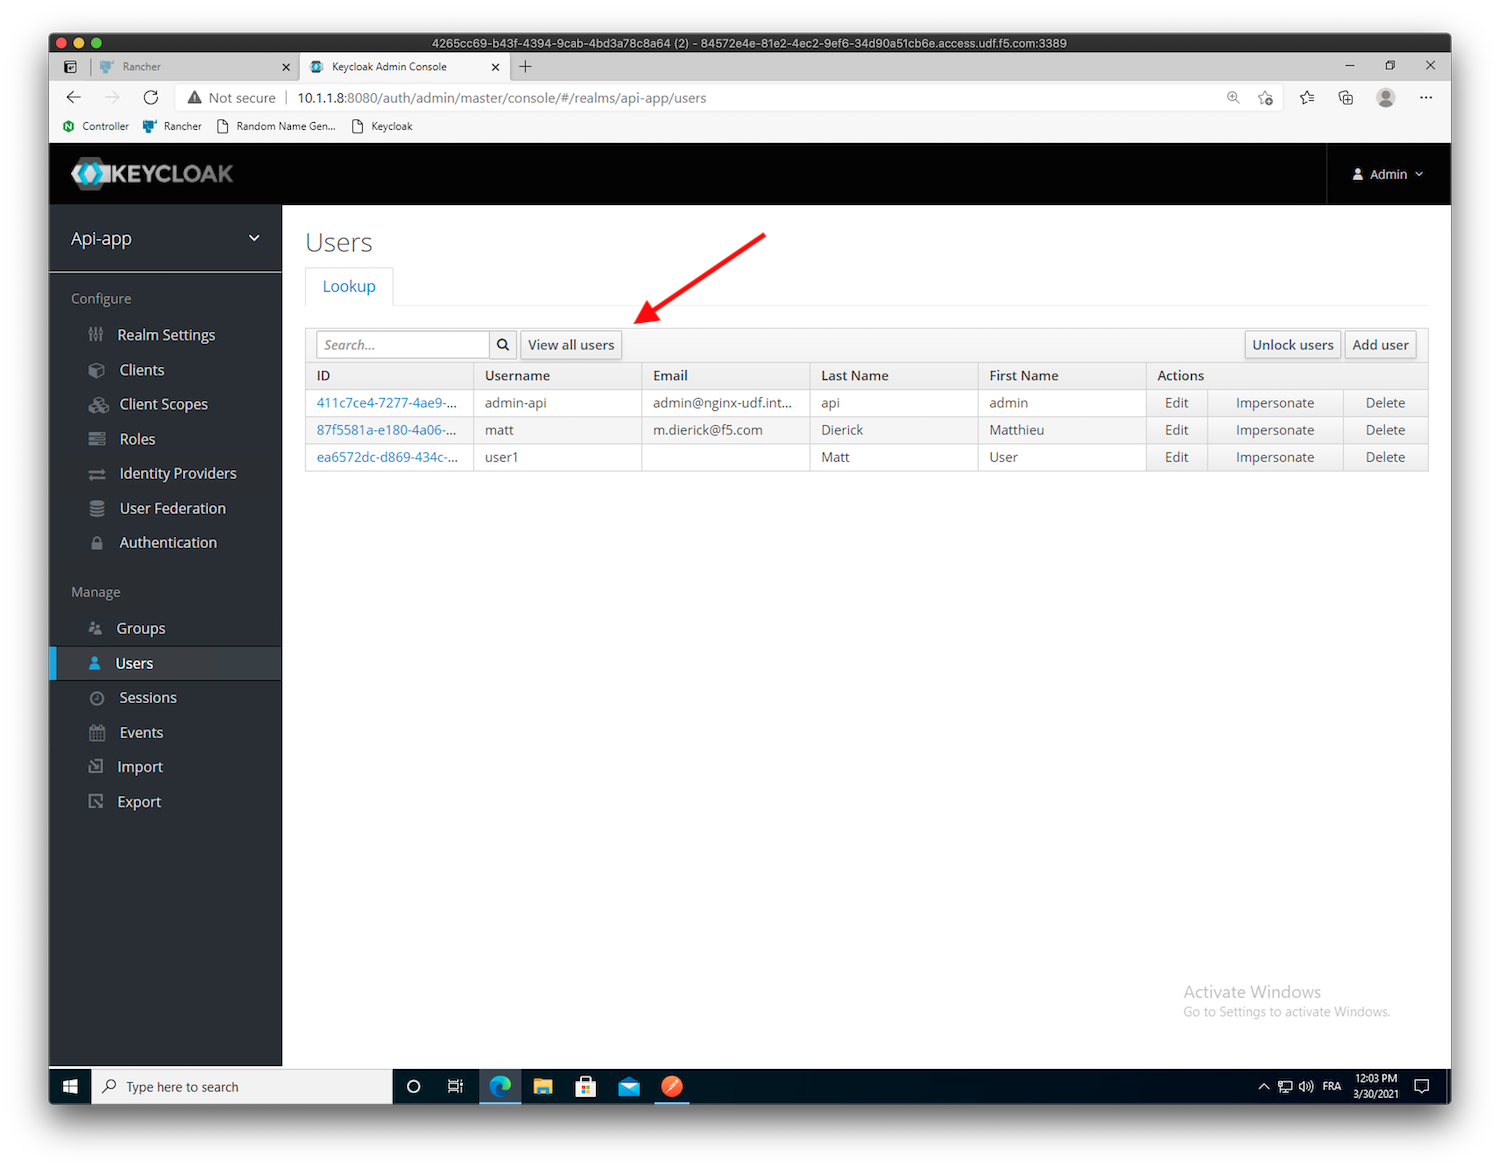
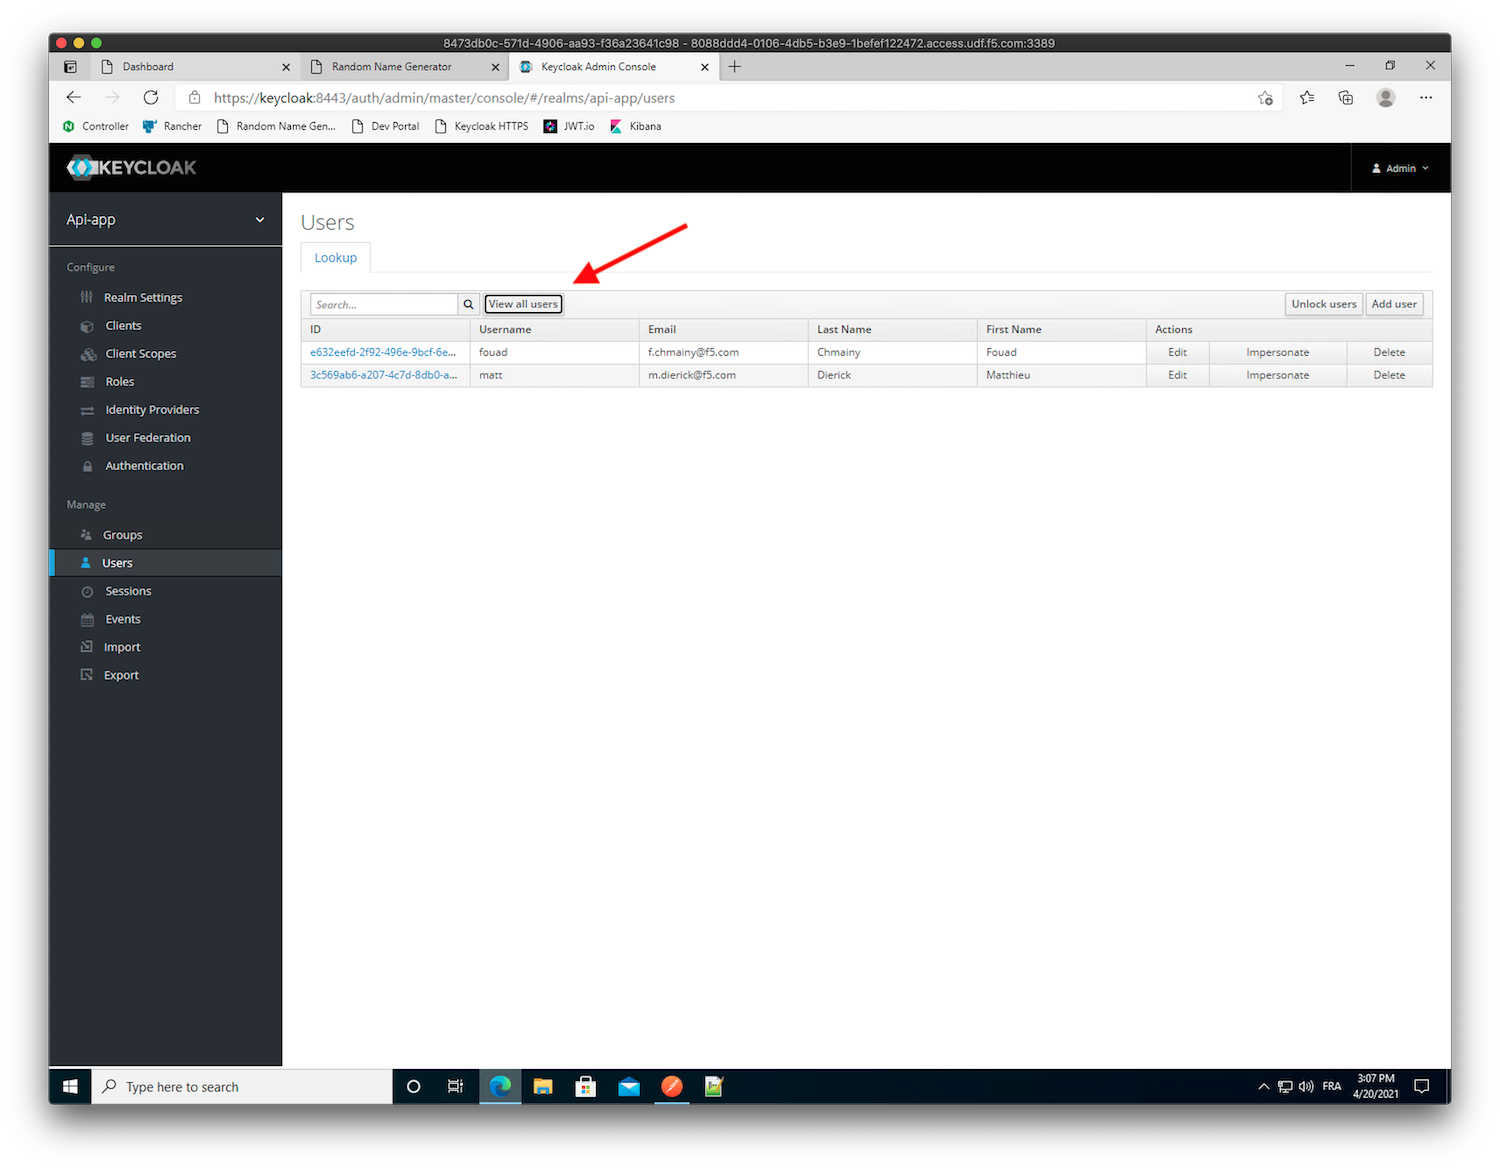
fixes APIm

diff --git a/docs/class6/module4/lab1/lab1.rst b/docs/class6/module4/lab1/lab1.rst
@@ -5,7 +5,6 @@ In this lab, we will add security in top of our API Gateway. To do so, we will:
 
 - Add JWT token validation
 - Add Claims authorization
-- Add a Rate Limiting policy
 
 .. image:: ../pictures/lab1/archi.png
    :align: center
@@ -23,7 +22,7 @@ Configure Keycloak as JWT OIDC token issuer
 ===========================================
 
 #. RDP to Win10 VM as user / user
-#. Open ``Edge Browser`` and click on ``Keycloak`` bookmark
+#. Open ``Edge Browser`` and click on ``Keycloak HTTPS`` bookmark
 #. Cick on ``Administration Console`` 
 
    .. image:: ../pictures/lab1/admin_console.png
@@ -44,7 +43,7 @@ Configure Keycloak as JWT OIDC token issuer
    .. image:: ../pictures/lab1/users.png
       :align: center
 
-   .. note:: As you can notice, we created ``matt`` with password ``matt``. At this stage, this user does not have any ``groups attribute`` assigned
+   .. note:: As you can notice, we created 2 users, ``matt`` with password ``matt``, and ``fouad`` with password ``fouad``. At this stage, this user does not have any ``groups attribute`` assigned
 
 #. Click on ``matt`` user ID to edit it.
 #. In the ``Attributes`` tab, add a new key ``groups`` and value ``employee``
@@ -65,7 +64,9 @@ Configure Keycloak as JWT OIDC token issuer
 
        .. note:: The configuration above says to add a claim with the name ``groups`` and assign the value from the user attribute ``groups``
 
-#. Come back to ``My-postman`` client and add this new scope into it
+    #. Click ``Save``
+
+#. Still in Keycloak UI, come back to ``My-postman`` client and add this new scope into it
     #. Click ``Clients`` > ``My-postman`` and select the tab ``Client Scopes``
     #. Before adding our new scope ``groups``, let's have a look on how the JWT token looks like. There is a great feature in Keycloak to see a generated token for a specific user
     #. Click on the sub-menu ``Evaluate`` and add the user ``matt`` at the bottom, then click ``Evaluate``
@@ -81,6 +82,10 @@ Configure Keycloak as JWT OIDC token issuer
        .. note:: As you can notice, there is no ``groups`` claim in this JWT token
 
     #. Click on the ``Setup`` sub-menu , and add the ``groups`` scope into the ``Assigned Default Client Scopes``
+
+       .. image:: ../pictures/lab1/scopes.png
+          :align: center
+
     #. Click on ``Evaluate`` sub-menu, and check the claim exists with the group attribute value ``employee``
 
 .. warning :: Congrats, we are good now to configure Nginx Controller in order to check the groups claim values to grant or not access to API endpoints.
@@ -207,7 +212,7 @@ Test your protected API with Conditional Access
 #. In Postman, for the ``GET Colors v3`` request, ask for a new token with user ``matt`` and password ``matt``. Don't be surprised if you don't see the popup windows asking for the credentials. It means Postman still has a session up with Keycloak for ``matt``
 #. Use the token and send the request. So far so good, it passes.
 #. Now, try with another user not part of ``employee`` group.
-    #. Click on ``Clear cookies``
+    #. Click on ``Clear cookies`` (scroll down)
 
        .. image:: ../pictures/lab1/clear_cookies.png
           :align: center

diff --git a/docs/class6/module4/lab3/lab3.rst b/docs/class6/module4/lab3/lab3.rst
@@ -20,8 +20,8 @@ The NAP (Nginx App Protect) is already deloyed in front of the Nginx API Gateway
 
 .. note:: We will update the BIGIP pool member in order to forward the API traffic to the NAP instead of the Nginx API Gw. We will do it at the end of this lab.
 
-Steps to configure Nginx App Protect as an API firewal
-******************************************************
+Steps to configure Nginx App Protect as an API firewall
+*******************************************************
 
 #. SSH or WebSSH to ``Nginx App Protect`` virtual machine
 #. Go to ``nginx`` folder with ``cd /etc/nginx``
@@ -138,12 +138,20 @@ Steps to configure Nginx App Protect as an API firewal
      
       sudo nginx -s reload
 
+   .. note:: Wait till the prompt comes back. It can takes up to 10 seconds.
+
+Update BIG-IP config to route API request to NAP
+************************************************
+
 #. Login to BIGIP TMUI as ``admin/admin``
 #. In ``Local Traffic > Virtual Servers``, edit the ``vs_api`` virtual server
 #. Click on ``Resources`` tab, and select ``pool-nap`` as default pool
 #. Cick ``Update``
 
-#. RDP to Windows 1O machine as ``user/user``
+Test your API Firewall
+**********************
+
+#. RDP to Windows 10 machine as ``user/user``
 #. Open ``Postman`` and the collection ``API Sentence Generator v3``
 #. Send any call and check the NAP is forwarding traffic to the API gateway
 #. Now, send an attack with the call ``GET Locations v3 Attack``. The request is blocked and you can see the Violation Support ID.

diff --git a/docs/class6/module3/lab1/lab1.rst b/docs/class6/module3/lab1/lab1.rst
@@ -10,7 +10,7 @@ They provided us an OpenAPI spec file (OASv3), and this specification file is av
 
 .. note:: This is the version v1.0 of the API, and in this version, as you can notice, the ``COLORS`` micro-service is not yet available. It means, with this Specification File, we will publish the API Sentence application wihtout the COLORS.
 
-.. note:: the sentence will look like ``calm mouse of the mountain`` for instance.
+.. note:: The sentence will look like ``calm mouse of the mountain`` for example.
 
 |
 
@@ -22,7 +22,6 @@ Create the API Definition
 
 #. In the controller UI, in the menu ``APIs``, create an ``API Version``
 
-   #. Click on ``Create API Version``
    #. First, you need to create an ``API Definition``, to do so, click on ``CREATE NEW`` under the API Definition selection (which is empty)
 
       #. Name: ``api-sentence``, and click ``Submit``
@@ -65,6 +64,9 @@ Create a Published API for v1.0
             #. Name: ``wl-generator``
             #. Click ``Add BackEnd Workload URI``
                 #. URI: ``http://10.1.20.8:31200``
+                
+                .. note:: This URL is the FQDN and the NodePort used by the microservice running in the K3S.
+
                 #. Click ``Done``
             #. Click ``Done``
         #. Click ``Next``

diff --git a/docs/class6/module4/lab2/lab2.rst b/docs/class6/module4/lab2/lab2.rst
@@ -8,6 +8,7 @@ Steps to enable Rate Limiting protection on COLORS API Endpoint
 
 #. Connect to the Controller UI, APIs, click on your API Definition and edit the Published API ``api-sentence-v3``
 #. In Routing, edit the security settings of the component ``cp-colors-v3``
+#. In the left menu, go to the sub-menu ``Rate Limiting``
 #. Enable Rate Limiting
     #. Key : ``Authenticated Client``
     #. Rate : ``5 requests per minutes``
@@ -32,7 +33,7 @@ Simulate too many requests from the client
 
 #. RDP to Win10 VM as user / user
 #. Open Postman and collection ``API Sentence Generator v3``, select the previous request ``GET Colors v3``
-#. Request a JWT token against Keycloak as ``matt`` and password ``matt`` 
+#. Request a JWT token against Keycloak as ``matt`` and password ``matt`` (to do so, clear the cookies in postman)
 #. Send the request, and don't wait more, send a second request. Your request is blocked because you are allowed to send one request every 12 seconds (5 req / minute)
 
    .. image:: ../pictures/lab2/429.png

diff --git a/docs/class6/module3/lab3/lab3.rst b/docs/class6/module3/lab3/lab3.rst
@@ -42,7 +42,10 @@ Let's deploy LOCATIONS v3.0 micro-service like a DevOps.
    .. image:: ../pictures/lab3/rancher-service-locationv3.png
       :align: center
 
-.. note:: Great, so now, the ``Location`` micro-service is running with 2 versions (v1.0) and (v3.0)
+.. note:: Great, so now, the ``Location`` micro-service is running with 2 versions (v1.0) and (v3.0). Both versions are published through NodePort on 2 different ports
+   
+   - Port 31103 for Locations v1/v2
+   - Port 31303 for Locations v3
 
 |
 
@@ -88,6 +91,10 @@ Publish the version 3.0 of the API
 
 #. Start by setting the ``Base Path``. This is the path to differentiate the different Published API. Set with ``/v3`` and check the box ``Strip Base Path`` so tha the backend app does not receive this Path.
 #. Name : ``api-sentence-v3``
+
+   .. image:: ../pictures/lab3/basepath.png
+      :align: center
+
 #. Click ``Next``
 #. Set the Environment, the App and the Gateway like the version v1.0
 
